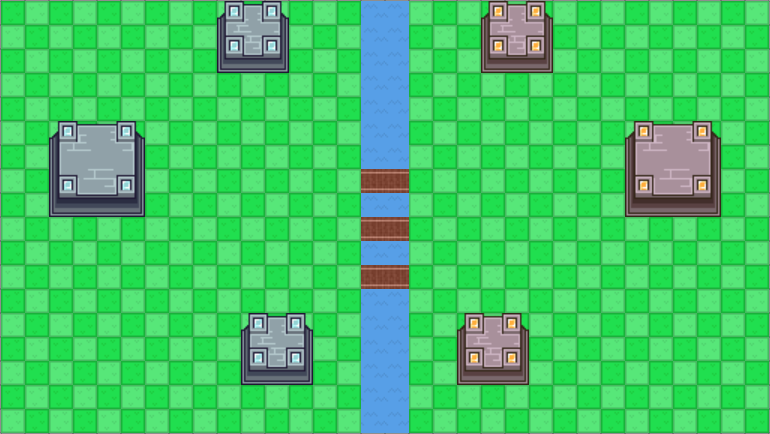
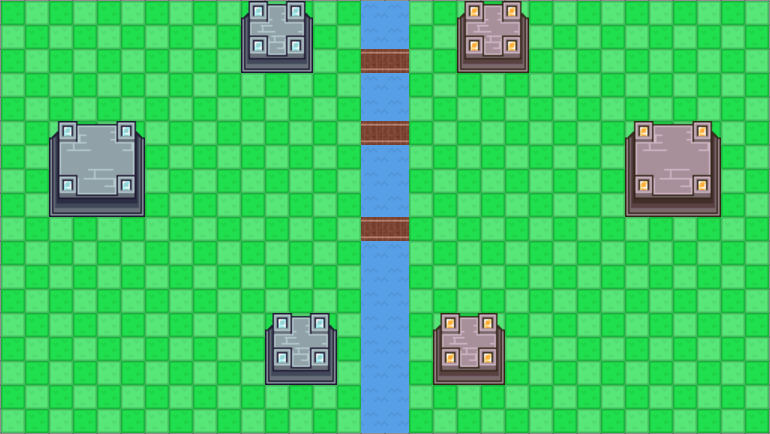
Few bugs need to be addressed

diff --git a/app/src/main/java/kuroyale/mainpack/managers/EntityRenderer.java b/app/src/main/java/kuroyale/mainpack/managers/EntityRenderer.java
@@ -300,54 +300,49 @@ public class EntityRenderer {
                     }
                     renderedTowers.put(obj, true);
                     
-                    // Compute bounding box for this tower
-                    int minRow = Integer.MAX_VALUE;
-                    int maxRow = Integer.MIN_VALUE;
-                    int minCol = Integer.MAX_VALUE;
-                    int maxCol = Integer.MIN_VALUE;
-                    
-                    // Find all cells occupied by this tower object
-                    for (int tr = 0; tr < rows; tr++) {
-                        for (int tc = 0; tc < cols; tc++) {
-                            PlacedObject cellObj = arenaMap.getObject(tr, tc);
-                            if (cellObj == obj) {
-                                minRow = Math.min(minRow, tr);
-                                maxRow = Math.max(maxRow, tr);
-                                minCol = Math.min(minCol, tc);
-                                maxCol = Math.max(maxCol, tc);
-                            }
-                        }
+                    // Determine tower size (princess=3, king=4)
+                    int towerSize;
+                    if (obj.getType() == ArenaObjectType.OUR_KING || obj.getType() == ArenaObjectType.ENEMY_KING) {
+                        towerSize = 4; // King is 4x4
+                    } else {
+                        towerSize = 3; // Princess is 3x3
                     }
                     
-                    if (minRow == Integer.MAX_VALUE) {
-                        continue; // Tower not found in arenaMap
-                    }
-                    
-                    // Compute top-left and dimensions
-                    int absoluteTopLeftRow = minRow;
-                    int absoluteTopLeftCol = minCol;
-                    int widthTiles = maxCol - minCol + 1;
-                    int heightTiles = maxRow - minRow + 1;
-                    
-                    // Transform top-left to client view using footprint-aware transform
-                    int renderTopLeftRow = absoluteTopLeftRow;
-                    int renderTopLeftCol = absoluteTopLeftCol;
-                    if (isClient) {
-                        int[] clientCoords = CoordinateTransformer.absoluteTopLeftToClientTopLeft(
-                            absoluteTopLeftRow, absoluteTopLeftCol, widthTiles, rows, cols);
-                        renderTopLeftRow = clientCoords[0];
-                        renderTopLeftCol = clientCoords[1];
-                    }
+                    // Find the anchor cell (bottom-right) where this PlacedObject is stored
+                    // In ArenaMap, towers are stored with bottom-right anchor
+                    int anchorRow = r; // Current cell (r, c) is where we found the PlacedObject
+                    int anchorCol = c;
                     
                     ImageView iv = SpriteLoader.getSprite(obj.getType(), tileSize);
                     if (iv != null) {
-                        // Position sprite at top-left pixel coordinates
-                        double x = renderTopLeftCol * tileSize;
-                        double y = renderTopLeftRow * tileSize;
-                        iv.relocate(x, y);
+                        // SpriteLoader.getSprite() already applies translate offsets:
+                        // - Princess (3x3): translateX = -2*tileSize, translateY = -2*tileSize
+                        // - King (4x4): translateX = -3*tileSize, translateY = -3*tileSize
+                        // These offsets shift the visual content relative to the ImageView position.
+                        //
+                        // The sprite is designed to be positioned at the anchor cell (bottom-right).
+                        // The translate offsets will shift the visual content to show the full tower footprint.
+                        double spriteX;
+                        double spriteY;
+                        
+                        if (isClient) {
+                            // Transform the anchor cell (bottom-right) to client view using footprint-aware transform
+                            // This ensures the mirrored anchor position accounts for the tower's footprint size
+                            int[] clientAnchorCoords = CoordinateTransformer.absoluteBottomRightToClientBottomRight(
+                                anchorRow, anchorCol, towerSize, rows, cols);
+                            
+                            spriteX = (clientAnchorCoords[1] + (obj.getType() == ArenaObjectType.OUR_KING || obj.getType() == ArenaObjectType.ENEMY_KING ? 3 : 2)) * tileSize;
+                            spriteY = clientAnchorCoords[0] * tileSize;
+                        } else {
+                            // Host: Position at anchor cell, translate offsets handle the visual positioning
+                            spriteX = anchorCol * tileSize;
+                            spriteY = anchorRow * tileSize;
+                        }
+                        
+                        iv.relocate(spriteX, spriteY);
                         staticLayer.getChildren().add(iv);
-                        // Store reference using any cell key (we only render once)
-                        staticSpritesByCell.put(cellKey(minRow, minCol), iv);
+                        // Store reference using anchor cell key
+                        staticSpritesByCell.put(cellKey(anchorRow, anchorCol), iv);
                     }
                 } else {
                     // Regular single-cell static object (bridges, etc.)

diff --git a/app/src/main/java/kuroyale/mainpack/managers/TowerManager.java b/app/src/main/java/kuroyale/mainpack/managers/TowerManager.java
@@ -203,6 +203,41 @@ public class TowerManager {
     }
     
     /**
+     * Legacy method for string-based tower type (for backward compatibility during transition).
+     * @deprecated Use syncTowerHealthFromNetwork(TowerId, double) instead
+     */
+    @Deprecated
+    public void syncTowerHealthFromNetwork(String towerType, double newHp) {
+        // Try to parse TowerId from string
+        TowerId towerId = null;
+        try {
+            towerId = TowerId.valueOf(towerType);
+        } catch (IllegalArgumentException e) {
+            // Fallback to old string matching
+            System.out.println("CLIENT: Legacy tower sync for type: " + towerType);
+            // Old logic for backward compatibility
+            java.util.Set<TowerEntity> updatedTowers = new java.util.HashSet<>();
+            for (int r = 0; r < rows; r++) {
+                for (int c = 0; c < cols; c++) {
+                    AliveEntity entity = arenaMap.getEntity(r, c);
+                    if (entity instanceof TowerEntity tower && !updatedTowers.contains(tower)) {
+                        TowerId id = identifyTower(tower);
+                        if (id != null && id.name().equals(towerType)) {
+                            syncTowerHealthFromNetwork(id, newHp);
+                            updatedTowers.add(tower);
+                        }
+                    }
+                }
+            }
+            return;
+        }
+        
+        if (towerId != null) {
+            syncTowerHealthFromNetwork(towerId, newHp);
+        }
+    }
+    
+    /**
      * Remove tower from network (client side).
      * Clears tower from arenaMap using bounding box and marks renderer dirty.
      * 
@@ -274,40 +309,6 @@ public class TowerManager {
                          minRow + "," + minCol + ") to (" + maxRow + "," + maxCol + ")");
     }
     
-    /**
-     * Legacy method for string-based tower type (for backward compatibility during transition).
-     * @deprecated Use syncTowerHealthFromNetwork(TowerId, double) instead
-     */
-    @Deprecated
-    public void syncTowerHealthFromNetwork(String towerType, double newHp) {
-        // Try to parse TowerId from string
-        TowerId towerId = null;
-        try {
-            towerId = TowerId.valueOf(towerType);
-        } catch (IllegalArgumentException e) {
-            // Fallback to old string matching
-            System.out.println("CLIENT: Legacy tower sync for type: " + towerType);
-            // Old logic for backward compatibility
-            java.util.Set<TowerEntity> updatedTowers = new java.util.HashSet<>();
-            for (int r = 0; r < rows; r++) {
-                for (int c = 0; c < cols; c++) {
-                    AliveEntity entity = arenaMap.getEntity(r, c);
-                    if (entity instanceof TowerEntity tower && !updatedTowers.contains(tower)) {
-                        TowerId id = identifyTower(tower);
-                        if (id != null && id.name().equals(towerType)) {
-                            syncTowerHealthFromNetwork(id, newHp);
-                            updatedTowers.add(tower);
-                        }
-                    }
-                }
-            }
-            return;
-        }
-        
-        if (towerId != null) {
-            syncTowerHealthFromNetwork(towerId, newHp);
-        }
-    }
 
     public List<TowerEntity> getTowersToKillWhenKingDies(boolean isPlayer) {
         List<TowerEntity> towersToKill = new ArrayList<>();

diff --git a/app/src/main/java/kuroyale/mainpack/network/CoordinateTransformer.java b/app/src/main/java/kuroyale/mainpack/network/CoordinateTransformer.java
@@ -206,4 +206,30 @@ public class CoordinateTransformer {
         // Mirror the top-left corner to client view using footprint-aware transform
         return absoluteToClientTopLeft(absoluteTopLeftRow, absoluteTopLeftCol, footprintSize, rows, cols);
     }
+    
+    /**
+     * Transform absolute coordinates of a footprint's bottom-right anchor to client view bottom-right anchor.
+     * This accounts for the footprint size when mirroring, ensuring perfect symmetry.
+     * 
+     * @param absoluteBottomRightRow Bottom-right row in absolute coordinates (anchor)
+     * @param absoluteBottomRightCol Bottom-right column in absolute coordinates (anchor)
+     * @param footprintSize Size of the footprint (Princess=3, King=4)
+     * @param rows Total arena rows
+     * @param cols Total arena columns
+     * @return int array [clientBottomRightRow, clientBottomRightCol] for anchor positioning
+     */
+    public static int[] absoluteBottomRightToClientBottomRight(int absoluteBottomRightRow, int absoluteBottomRightCol,
+                                                              int footprintSize, int rows, int cols) {
+        // Get the client-view top-left
+        int[] clientTopLeft = absoluteBottomRightToClientTopLeft(absoluteBottomRightRow, absoluteBottomRightCol, 
+                                                                 footprintSize, rows, cols);
+        int clientTopLeftRow = clientTopLeft[0];
+        int clientTopLeftCol = clientTopLeft[1];
+        
+        // Convert back to bottom-right in client view
+        int clientBottomRightRow = clientTopLeftRow + (footprintSize - 1);
+        int clientBottomRightCol = clientTopLeftCol + (footprintSize - 1);
+        
+        return new int[] { clientBottomRightRow, clientBottomRightCol };
+    }
 }

diff --git a/app/src/main/java/kuroyale/mainpack/ArenaController.java b/app/src/main/java/kuroyale/mainpack/ArenaController.java
@@ -296,8 +296,9 @@ public class ArenaController {
                         }
 
                         boolean placementOK = true;
+                        // For bridges, only allow placement at river columns (15 or 16)
                         if (objType == ArenaObjectType.BRIDGE) {
-                            if (c == 15) {
+                            if (c != 15 && c != 16) {
                                 placementOK = false;
                             }
                         }
@@ -409,9 +410,12 @@ public class ArenaController {
                             ImageView sprite;
                             if (actualType == ArenaObjectType.BRIDGE) {
                                 sprite = SpriteLoader.getBuilderBridgeSprite(tileSize);
-                                arenaMap.setObject(r, c + (2 * (c % 2) - 1), ArenaObjectType.BRIDGE);
+                                // Bridges are placed in pairs at columns 15 and 16
+                                // Calculate the paired column: if at 15, pair is at 16; if at 16, pair is at 15
+                                int pairedCol = (c == 15) ? 16 : 15;
+                                arenaMap.setObject(r, pairedCol, ArenaObjectType.BRIDGE);
                                 System.out.printf("placed first bridge on %d, %d\n", r, c);
-                                System.out.printf("placed second bridge on %d, %d\n", r, c + (2 * (c % 2) - 1));
+                                System.out.printf("placed second bridge on %d, %d\n", r, pairedCol);
                             } else {
                                 sprite = SpriteLoader.getSprite(actualType, tileSize);
                             }

diff --git a/app/src/main/java/kuroyale/mainpack/network/TowerId.java b/app/src/main/java/kuroyale/mainpack/network/TowerId.java
@@ -52,4 +52,3 @@ public enum TowerId {
         }
     }
 }
-
